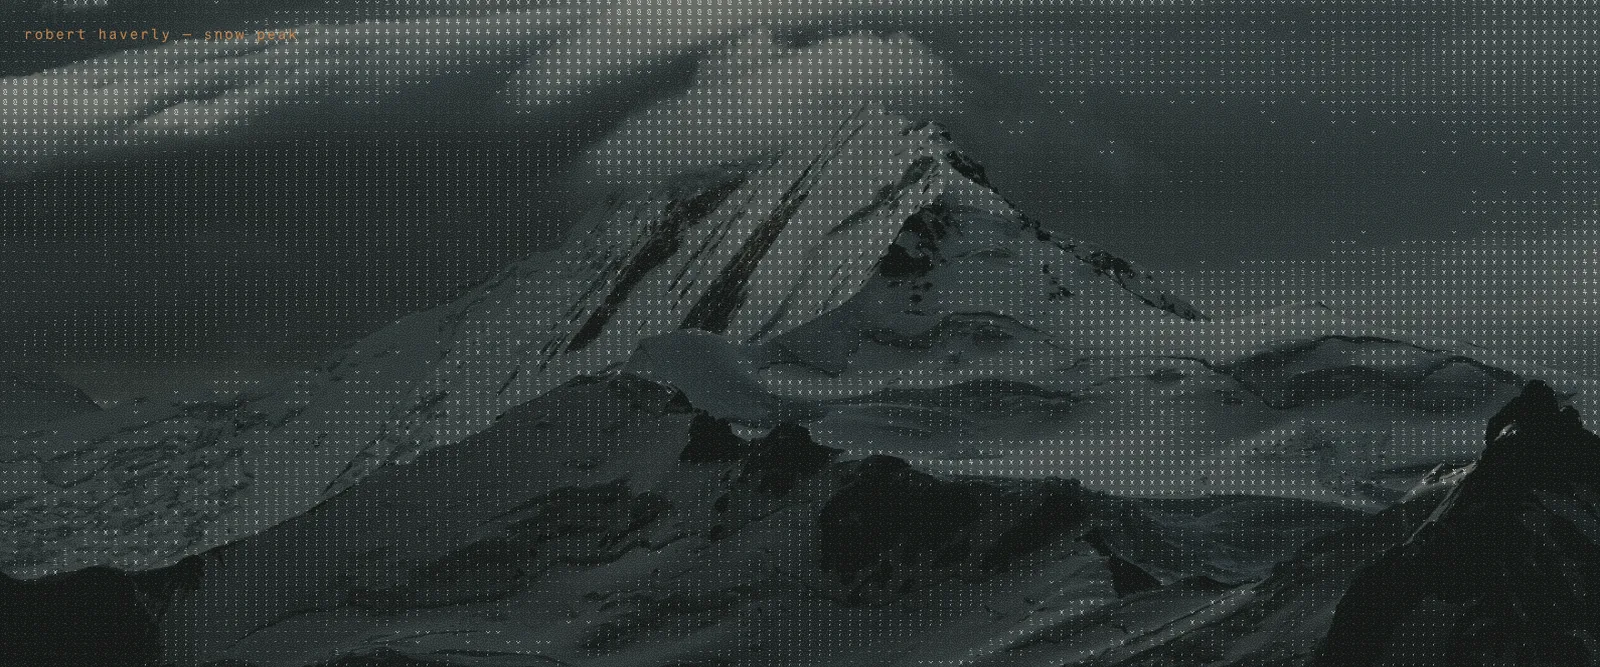
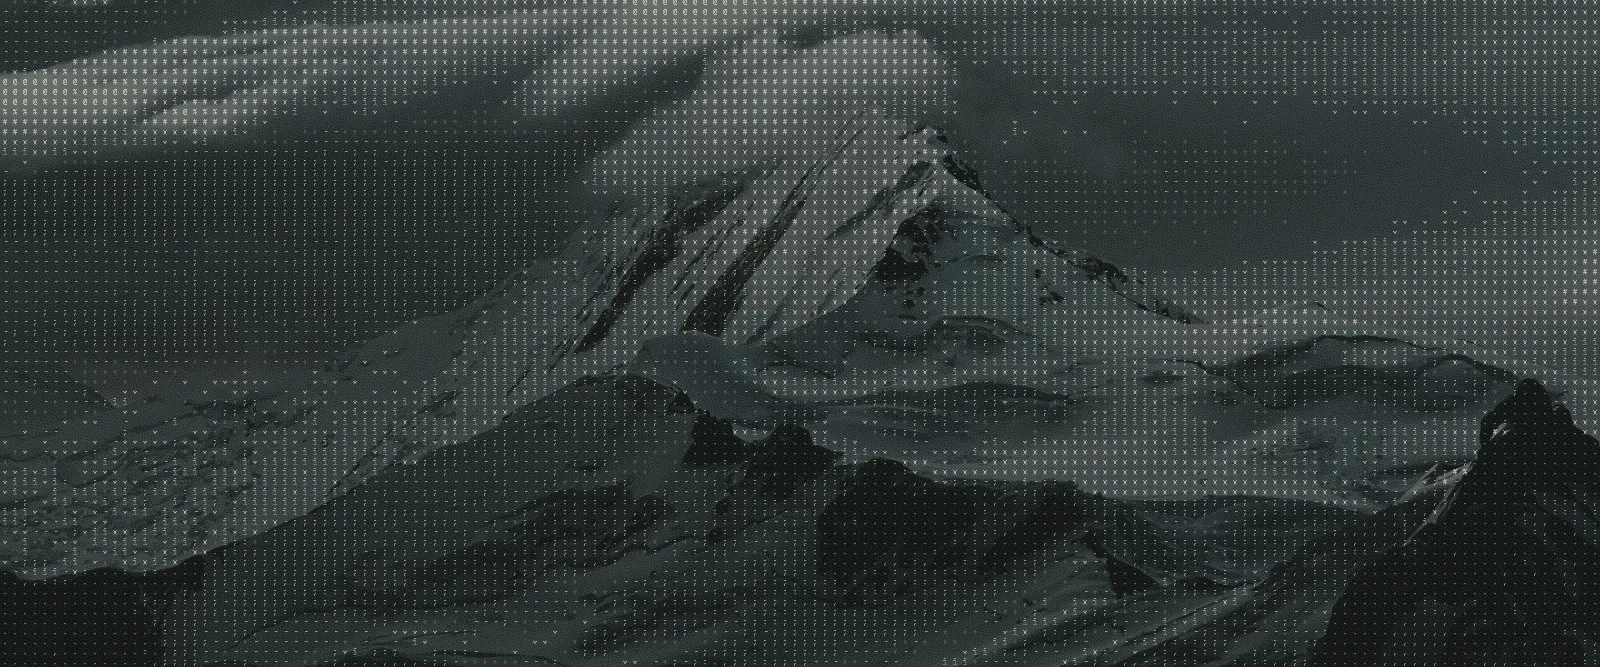
feat(hero): six backdrops, five of them on depth anything 3
adds blossom, gapstow-bridge, snow-peak and red-flowers; drops
fog-forest and rain-city. every map was compared da2 vs da3 vs depth pro
on a local picker and chosen per photo.

da3 won five. da2 keeps forest-road, where depth pro resolves individual
tree crowns best but da3 blurs them together. the failure modes decided
it more than the wins: da3 and depth pro both predict metric depth and
hallucinate near-field in large flat bright regions — da3 paints a
near band across rain-city's night sky, depth pro inverts sakura
entirely. da2 predicts disparity and never blew up, which is why it is
still the pipeline default.

depth pngs are oxipng level 4, 10.84MB -> 9.40MB with the unpacked
16-bit values bit-identical. forest-road's map is byte-different only
from that re-encode.

posters are rendered from the depth map, so all five changed maps got
recaptured.

diff --git a/src/lib/hero/pairs.ts b/src/lib/hero/pairs.ts
@@ -7,7 +7,7 @@ export interface HeroPair {
 	 * Stills of the tuned glyph render for the static <img> layer (the LCP
 	 * element and every fallback path). Two widths served via srcset — the
 	 * glyph texture compresses poorly, so mobile must get the small file.
-	 * Regenerate with scripts/capture-poster.mjs after retuning.
+	 * Regenerate with scripts/hero/capture-posters.mjs after retuning.
 	 */
 	poster: { small: string; large: string };
 	/** width / height of the source photograph */
@@ -24,25 +24,15 @@ export interface HeroPair {
 
 /**
  * Curated (photo, depth map) pairs. Swapping or adding a pair is data, not
- * code: drop the photo in static/hero/, run scripts/depth/generate-depth.py
- * and scripts/capture-poster.mjs, add an entry here — and its `credit`.
+ * code: add the wallpaper url to scripts/hero/input.txt and run
+ * scripts/hero/backdrops.py, which crops the photo, builds its depth map and
+ * writes the entry below; then scripts/hero/capture-posters.mjs for the
+ * poster stills. See scripts/hero/README.md.
  *
  * To attribute: add `credit: { name: "Jane Doe", url: "https://unsplash.com/photos/…" }`
  * to a pair below; it appears bottom-left over the hero automatically.
  */
 export const heroPairs: HeroPair[] = [
-	{
-		id: "fog-forest",
-		label: "fog forest",
-		photo: "/hero/fog-forest.jpeg",
-		poster: {
-			small: "/hero/fog-forest-poster-800.webp",
-			large: "/hero/fog-forest-poster-1600.webp",
-		},
-		depth: "/hero/depth/fog-forest.png",
-		aspect: 1920 / 800,
-		focus: [0.5, 0.5],
-	},
 	{
 		id: "mountain",
 		label: "mountain",
@@ -76,19 +66,67 @@ export const heroPairs: HeroPair[] = [
 		},
 	},
 	{
-		id: "rain-city",
-		label: "rain city",
-		photo: "/hero/rain-city.jpeg",
+		id: "blossom",
+		label: "blossom",
+		photo: "/hero/blossom.jpeg",
 		poster: {
-			small: "/hero/rain-city-poster-800.webp",
-			large: "/hero/rain-city-poster-1600.webp",
+			small: "/hero/blossom-poster-800.webp",
+			large: "/hero/blossom-poster-1600.webp",
 		},
-		depth: "/hero/depth/rain-city.png",
+		depth: "/hero/depth/blossom.png",
 		aspect: 1920 / 800,
 		focus: [0.5, 0.5],
 		credit: {
-			name: "kevin bosc",
-			url: "https://unsplash.com/photos/4e9eeHdiBi0?utm_source=enochzhu&utm_medium=referral",
+			name: "jessica kramer",
+			url: "https://unsplash.com/photos/AZTTuralYco?utm_source=enochzhu&utm_medium=referral",
+		},
+	},
+	{
+		id: "gapstow-bridge",
+		label: "gapstow bridge",
+		photo: "/hero/gapstow-bridge.jpeg",
+		poster: {
+			small: "/hero/gapstow-bridge-poster-800.webp",
+			large: "/hero/gapstow-bridge-poster-1600.webp",
+		},
+		depth: "/hero/depth/gapstow-bridge.png",
+		aspect: 1920 / 800,
+		focus: [0.5, 0.5],
+		credit: {
+			name: "juan di nella",
+			url: "https://unsplash.com/photos/ne1X1c9M0Hg?utm_source=enochzhu&utm_medium=referral",
+		},
+	},
+	{
+		id: "snow-peak",
+		label: "snow peak",
+		photo: "/hero/snow-peak.jpeg",
+		poster: {
+			small: "/hero/snow-peak-poster-800.webp",
+			large: "/hero/snow-peak-poster-1600.webp",
+		},
+		depth: "/hero/depth/snow-peak.png",
+		aspect: 1920 / 800,
+		focus: [0.5, 0.5],
+		credit: {
+			name: "slava auchynnikau",
+			url: "https://unsplash.com/photos/Z4g5S4sksPQ?utm_source=enochzhu&utm_medium=referral",
+		},
+	},
+	{
+		id: "red-flowers",
+		label: "red flowers",
+		photo: "/hero/red-flowers.jpeg",
+		poster: {
+			small: "/hero/red-flowers-poster-800.webp",
+			large: "/hero/red-flowers-poster-1600.webp",
+		},
+		depth: "/hero/depth/red-flowers.png",
+		aspect: 1920 / 800,
+		focus: [0.5, 0.5],
+		credit: {
+			name: "mariano baraldi",
+			url: "https://unsplash.com/photos/oWljDFJCVAs?utm_source=enochzhu&utm_medium=referral",
 		},
 	},
 ];

diff --git a/src/app.html b/src/app.html
@@ -9,7 +9,14 @@
 			// same refresh-scoped image. Selected on every page — the 404/fog pages
 			// rotate through the same pool as the hero. Avoid an immediate repeat.
 			document.documentElement.classList.add("js");
-			const pairs = ["fog-forest", "mountain", "forest-road", "rain-city"];
+			const pairs = [
+				"mountain",
+				"forest-road",
+				"blossom",
+				"gapstow-bridge",
+				"snow-peak",
+				"red-flowers",
+			];
 			let previous = null;
 			try {
 				previous = sessionStorage.getItem("hero-pair");
